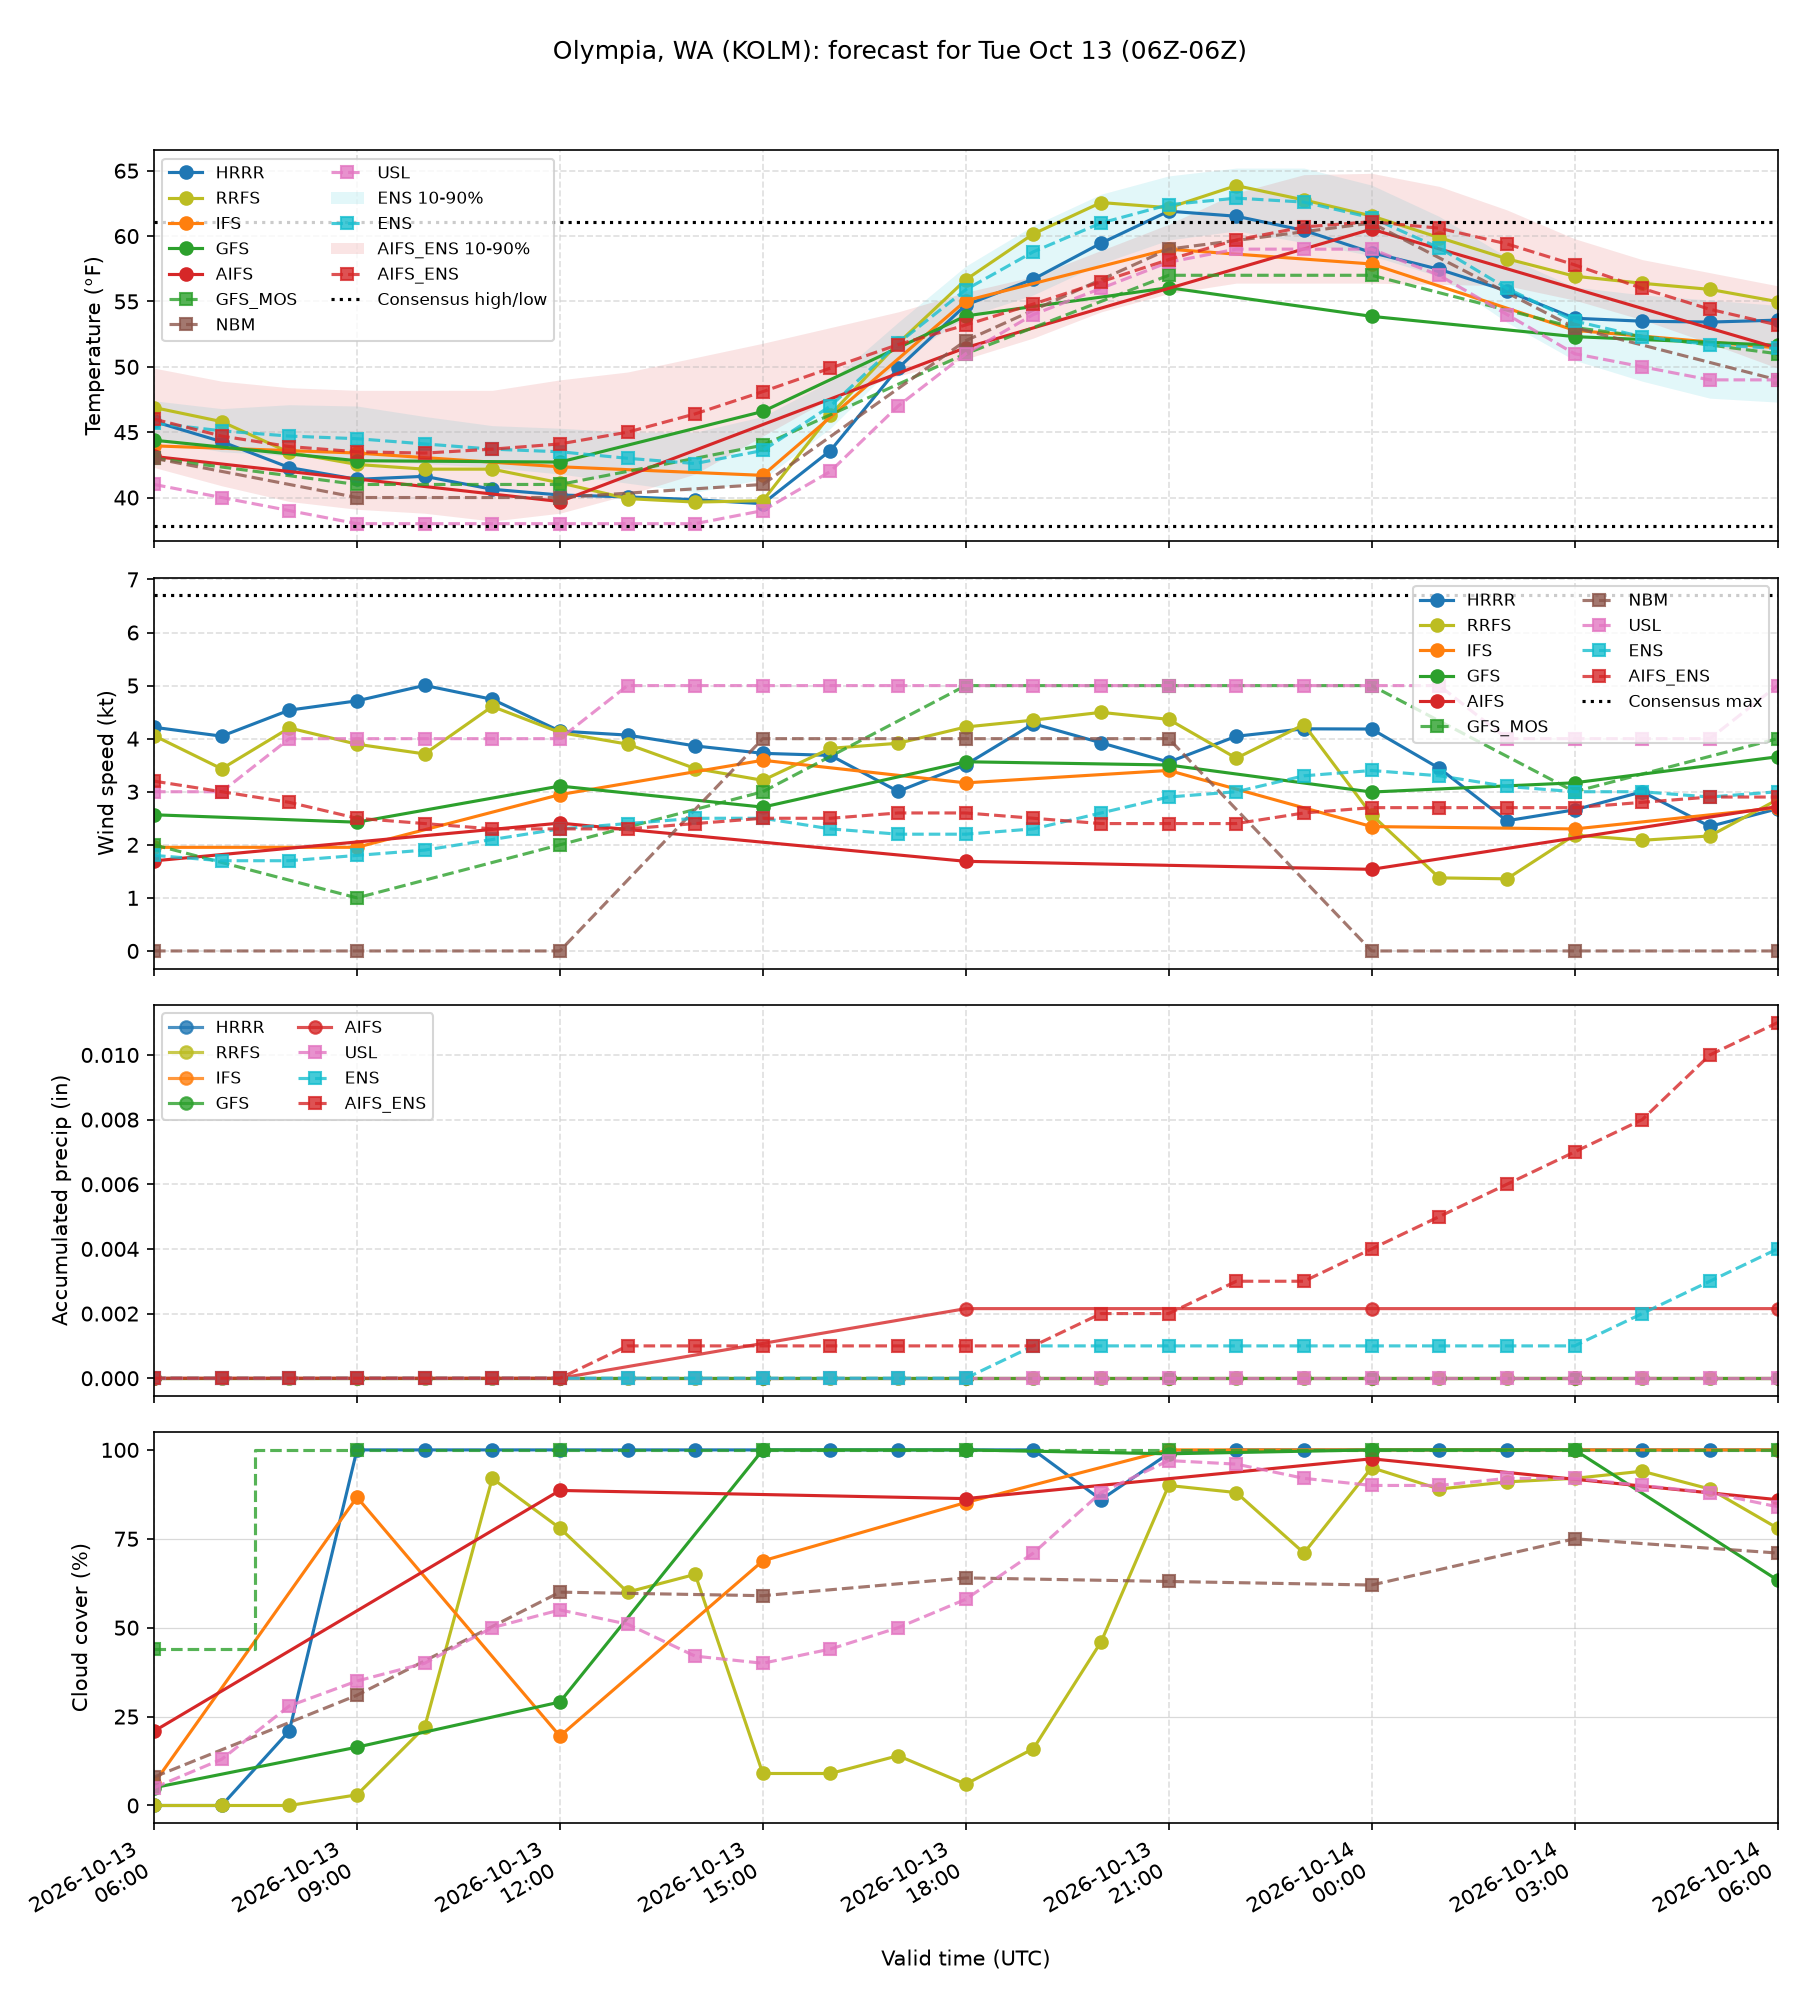
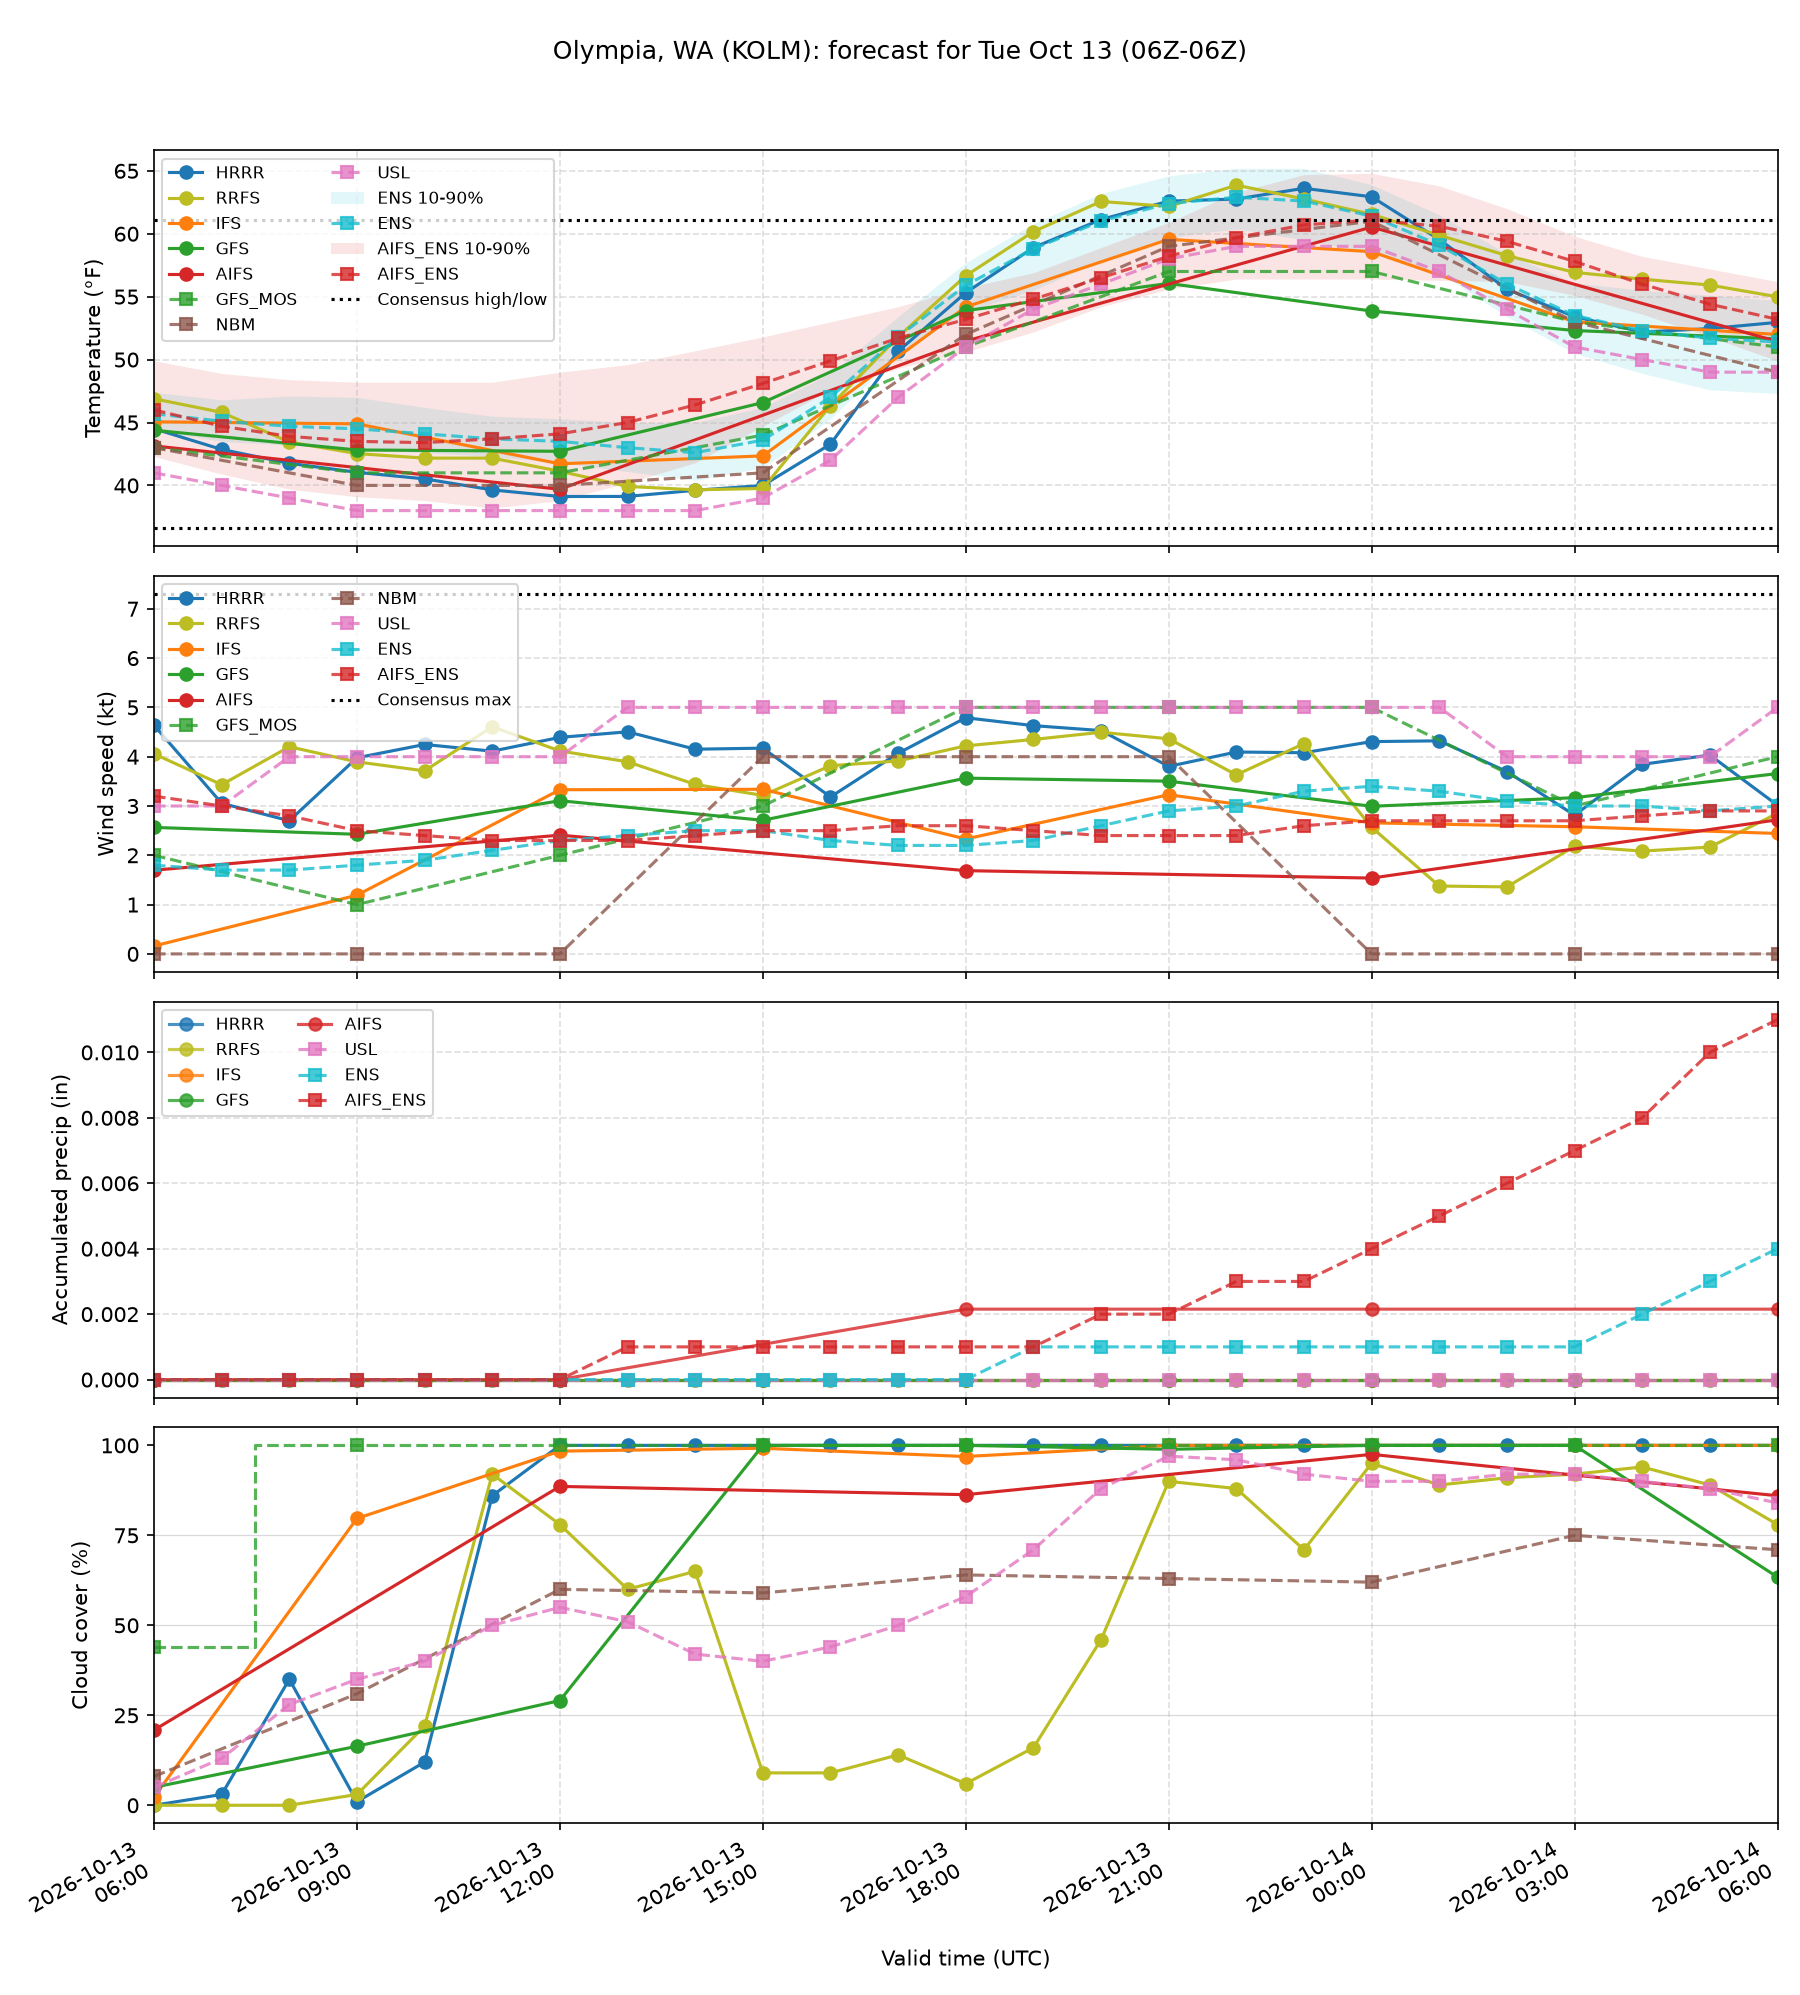
update wxchallenge: 2026-10-12T20:00:09+00:00

diff --git a/weather-forecasts/wxchallenge/index.html b/weather-forecasts/wxchallenge/index.html
@@ -1023,6 +1023,9 @@ function renderToday(tj){
       txt += ' Models far from the rest (over 8 °F or 10 kt from the middle) are left out.';
       if (cm.not_yet_verified?.length) txt += ` Not scored yet, so used as-is: ${names(cm.not_yet_verified)}.`;
       if (cm.excluded_outliers?.length) txt += ` Left out today: ${names(cm.excluded_outliers)}.`;
+      if (cm.excluded_stale?.length) txt += ` Left out as out of date (run over 36 h older than the newest): ${names(cm.excluded_stale)}.`;
+      const px = Object.entries(cm.proxy_track_record || {});
+      if (px.length) txt += ` Not scored yet, so using their parent model's record: ${px.map(([k, p]) => `${LABEL[k] || k} (${LABEL[p] || p})`).join(', ')}.`;
       document.getElementById('consensus-note').textContent = txt;
     }
     renderEnsembles(data);

diff --git a/weather-forecasts/data/wxchallenge/brief.md b/weather-forecasts/data/wxchallenge/brief.md
@@ -3,7 +3,7 @@
 - Station: **KOLM**
 - Target day: **2026-10-13**, scored over 2026-10-13T06Z to 2026-10-14T06Z (UTC, 06Z to 06Z)
 - Submission deadline: 2026-10-13T00Z (forecasts for a day are due at 00Z that day)
-- Generated: 2026-10-12T19:30:09+00:00 (refreshed several times an hour while the forecast job runs)
+- Generated: 2026-10-12T20:00:09+00:00 (refreshed several times an hour while the forecast job runs)
 - Units: temperature °F, wind kt (max sustained), precipitation inches (liquid)
 
 ## How to use this brief (for AI assistants)
@@ -28,9 +28,9 @@ Run = day/hour (UTC) of the model initialization.
 
 | Model | Run | High °F | Low °F | Wind kt | Precip in |
 | --- | --- | --: | --: | --: | --: |
-| HRRR | 12/12Z | 61.9 | 39.5 | 5.0 | 0.00 |
+| HRRR | 12/18Z | 63.6 | 39.1 | 4.8 | 0.00 |
 | RRFS | 12/12Z | 63.9 | 39.3 | 4.6 | 0.00 |
-| IFS | 12/06Z | 59.1 | 40.8 | 3.6 | 0.00 |
+| IFS | 12/12Z | 59.9 | 40.9 | 3.3 | 0.00 |
 | GFS | 12/12Z | 56.9 | 41.9 | 3.7 | 0.00 |
 | AIFS | 12/12Z | 60.5 | 39.7 | 2.7 | 0.00 |
 | GFS_MOS | 12/12Z | 59.0 | 39.0 | 5.0 | 0.00 |
@@ -42,7 +42,7 @@ Run = day/hour (UTC) of the model initialization.
 | HRRRCAST (precip only) | 12/12Z | — | — | — | 0.00 |
 | REFS (precip only) | 12/12Z | — | — | — | 0.00 |
 | NBM_QMD (precip only) | 12/12Z | — | — | — | 0.00 |
-| **CONSENSUS** |  | **61.1** | **37.8** | **6.7** | **0.00** |
+| **CONSENSUS** |  | **61.1** | **36.6** | **7.3** | **0.00** |
 
 Notes:
 - AIFS: 6-hourly output: high/low likely underdone
@@ -61,10 +61,10 @@ GEFS is shown but not used in the consensus. Precip-only ensembles (REFS, HRRRCA
 
 - bias-corrected (n_eff/(n_eff+3) of each model's decay-weighted mean error), 1/(MAE+0.5) weighted. Precip is weighted but not bias-corrected.
 
-- High °F weights: NBM 0.15, RRFS 0.12, AIFS 0.10, GFS_MOS 0.10, USL 0.10, ENS 0.10, AIFS_ENS 0.10, HRRR 0.09, IFS 0.08, GFS 0.07 (no track record yet: USL, ENS, AIFS_ENS)
-- Low °F weights: GFS_MOS 0.14, NBM 0.14, HRRR 0.10, GFS 0.10, USL 0.10, ENS 0.10, AIFS_ENS 0.10, AIFS 0.08, IFS 0.08, RRFS 0.07 (no track record yet: USL, ENS, AIFS_ENS)
-- Wind kt weights: RRFS 0.13, HRRR 0.11, NBM 0.11, GFS_MOS 0.10, USL 0.10, ENS 0.10, AIFS_ENS 0.10, IFS 0.09, GFS 0.08, AIFS 0.08 (no track record yet: USL, ENS, AIFS_ENS)
-- Precip in weights: GFS_MOS 0.10, HRRR 0.10, RRFS 0.10, GFS 0.10, AIFS 0.10, NBM 0.10, USL 0.10, ENS 0.10, AIFS_ENS 0.10, IFS 0.10 (no track record yet: USL, ENS, AIFS_ENS)
+- High °F weights: NBM 0.19, RRFS 0.15, AIFS 0.12, GFS_MOS 0.12, USL 0.12, HRRR 0.11, IFS 0.10, GFS 0.09 (no track record yet: USL) (stale runs excluded: ENS, AIFS_ENS)
+- Low °F weights: GFS_MOS 0.17, NBM 0.17, HRRR 0.12, GFS 0.12, USL 0.12, AIFS 0.10, IFS 0.10, RRFS 0.09 (no track record yet: USL) (stale runs excluded: ENS, AIFS_ENS)
+- Wind kt weights: RRFS 0.16, HRRR 0.14, NBM 0.13, GFS_MOS 0.13, USL 0.13, IFS 0.12, GFS 0.10, AIFS 0.10 (no track record yet: USL) (stale runs excluded: ENS, AIFS_ENS)
+- Precip in weights: GFS_MOS 0.13, RRFS 0.12, GFS 0.12, AIFS 0.12, NBM 0.12, USL 0.12, HRRR 0.12, IFS 0.12 (no track record yet: USL) (stale runs excluded: ENS, AIFS_ENS)
 
 ## Ensemble spread (target day)
 
@@ -227,22 +227,22 @@ Precip in: observed (~ = still preliminary) and each model's error (forecast - o
 | 10-10 h | 0.00 | +0.00 | +0.00 | +0.01 | +0.02 | +0.02 | +0.00 | +0.00 | — | +0.01 |
 | 10-11 h | 0.00 | +0.00 | +0.00 | +0.00 | +0.00 | +0.00 | +0.00 | +0.00 | +0.00 | +0.00 |
 
-## Today so far (2026-10-12, through 2026-10-12T18:54Z)
+## Today so far (2026-10-12, through 2026-10-12T19:54Z)
 
-This is the day in progress (not the target day), scored against the runs submitted before its deadline. Observed so far: high 55.9 °F, low 28.0 °F, max wind 3 kt, precip 0.00" (13 hourly obs).
+This is the day in progress (not the target day), scored against the runs submitted before its deadline. Observed so far: high 60.1 °F, low 28.0 °F, max wind 3 kt, precip 0.00" (14 hourly obs).
 
 Temp bias/MAE are over the hourly obs so far. High/low columns show the model's daily value and (in brackets) its difference from the observed extreme so far; "pending" means the model's expected time of that extreme hasn't passed, so the observed value can still change.
 
 | Model | Run | Temp bias | Temp MAE | High (err) | Low (err) | Wind bias | Precip so far | Precip err |
 | --- | --- | --: | --: | --: | --: | --: | --: | --: |
-| HRRR | 11/18Z | +6.8 | 6.8 | 65 (+9) pending | 38 (+10) | +1.9 | 0.00 | +0.00 |
-| RRFS | 11/18Z | +8.5 | 8.5 | 63 (+8) pending | 39 (+11) | +1.7 | 0.00 | +0.00 |
-| IFS | 11/12Z | +10.1 | 10.1 | 62 (+6) pending | 42 (+14) | +0.2 | 0.00 | +0.00 |
-| GFS | 11/18Z | +6.4 | 6.4 | 64 (+8) pending | 37 (+9) | +1.3 | 0.00 | +0.00 |
-| AIFS | 11/12Z | +6.7 | 7.2 | 62 (+6) pending | 37 (+9) | +0.2 | 0.00 | +0.00 |
-| GFS_MOS | 11/18Z | +3.7 | 4.2 | 62 (+6) pending | 33 (+5) | +1.7 | — | — |
-| NBM | 11/18Z | +6.1 | 6.2 | 65 (+9) pending | 35 (+7) | -0.7 | — | — |
-| USL | 11/22Z | +2.4 | 2.7 | 63 (+7) pending | 32 (+4) | +1.5 | 0.00 | +0.00 |
+| HRRR | 11/18Z | +6.4 | 6.4 | 65 (+5) pending | 38 (+10) | +1.9 | 0.00 | +0.00 |
+| RRFS | 11/18Z | +7.9 | 7.9 | 63 (+3) pending | 39 (+11) | +1.6 | 0.00 | +0.00 |
+| IFS | 11/12Z | +9.3 | 9.4 | 62 (+2) pending | 42 (+14) | +0.3 | 0.00 | +0.00 |
+| GFS | 11/18Z | +5.9 | 5.9 | 64 (+3) pending | 37 (+9) | +1.4 | 0.00 | +0.00 |
+| AIFS | 11/12Z | +5.8 | 7.1 | 62 (+2) pending | 37 (+9) | +0.2 | 0.00 | +0.00 |
+| GFS_MOS | 11/18Z | +3.1 | 4.3 | 62 (+2) pending | 33 (+5) | +2.0 | — | — |
+| NBM | 11/18Z | +5.5 | 6.0 | 65 (+5) pending | 35 (+7) | -0.6 | — | — |
+| USL | 11/22Z | +2.1 | 2.7 | 63 (+3) pending | 32 (+4) | +1.7 | 0.00 | +0.00 |
 
 ## Raw data
 
